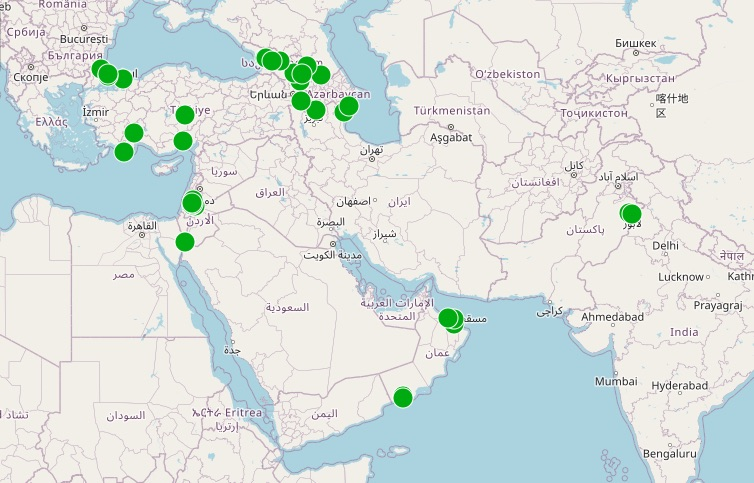
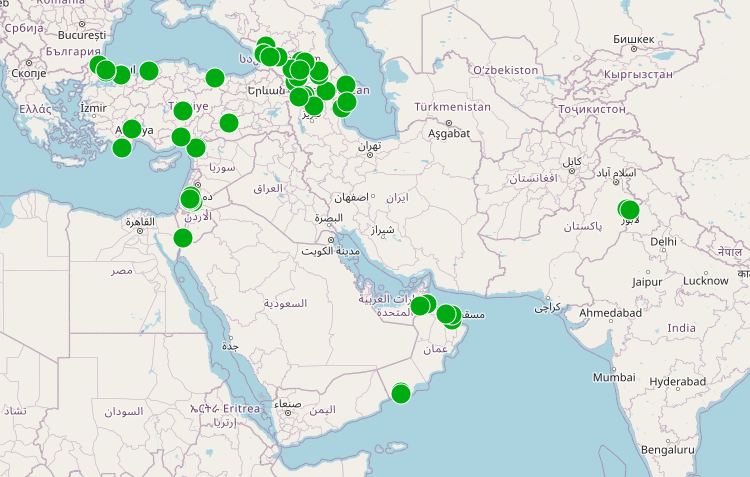
updated static map and splash page
On splash page, only show samples per species for bats a users is allowed to see.

diff --git a/wabnet/views.py b/wabnet/views.py
@@ -119,7 +119,12 @@ def splash(request):
                 'accessible': all_countries or site_data.country in user_viewable_countries,
             })
     samples_by_species = {}
-    for bat_data in BatData.objects.all():
+    if 'all countries' in user_viewable_countries:
+        allowed_bats = BatData.objects.all()
+    else:
+        allowed_bats = BatData.objects.filter(
+            parent__parent__country__in=user_viewable_countries)
+    for bat_data in allowed_bats:
         bat_family, bat_species = get_bat_species(bat_data)
         samples_by_species[bat_species] = samples_by_species.get(bat_species, 0) + 1
     samples_by_species_list = [(k,v) for k,v in samples_by_species.items()]
